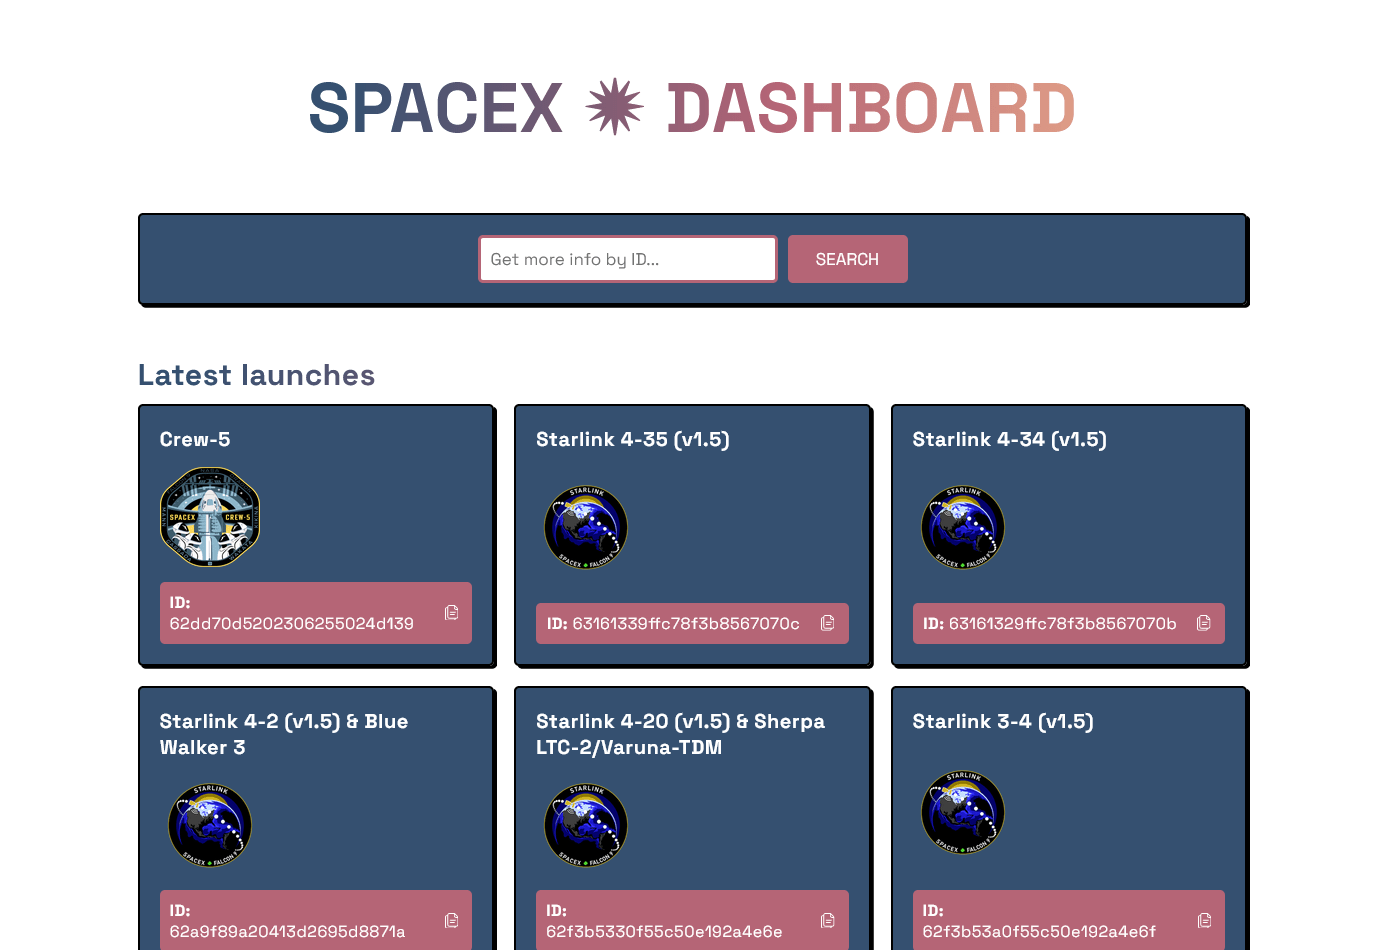
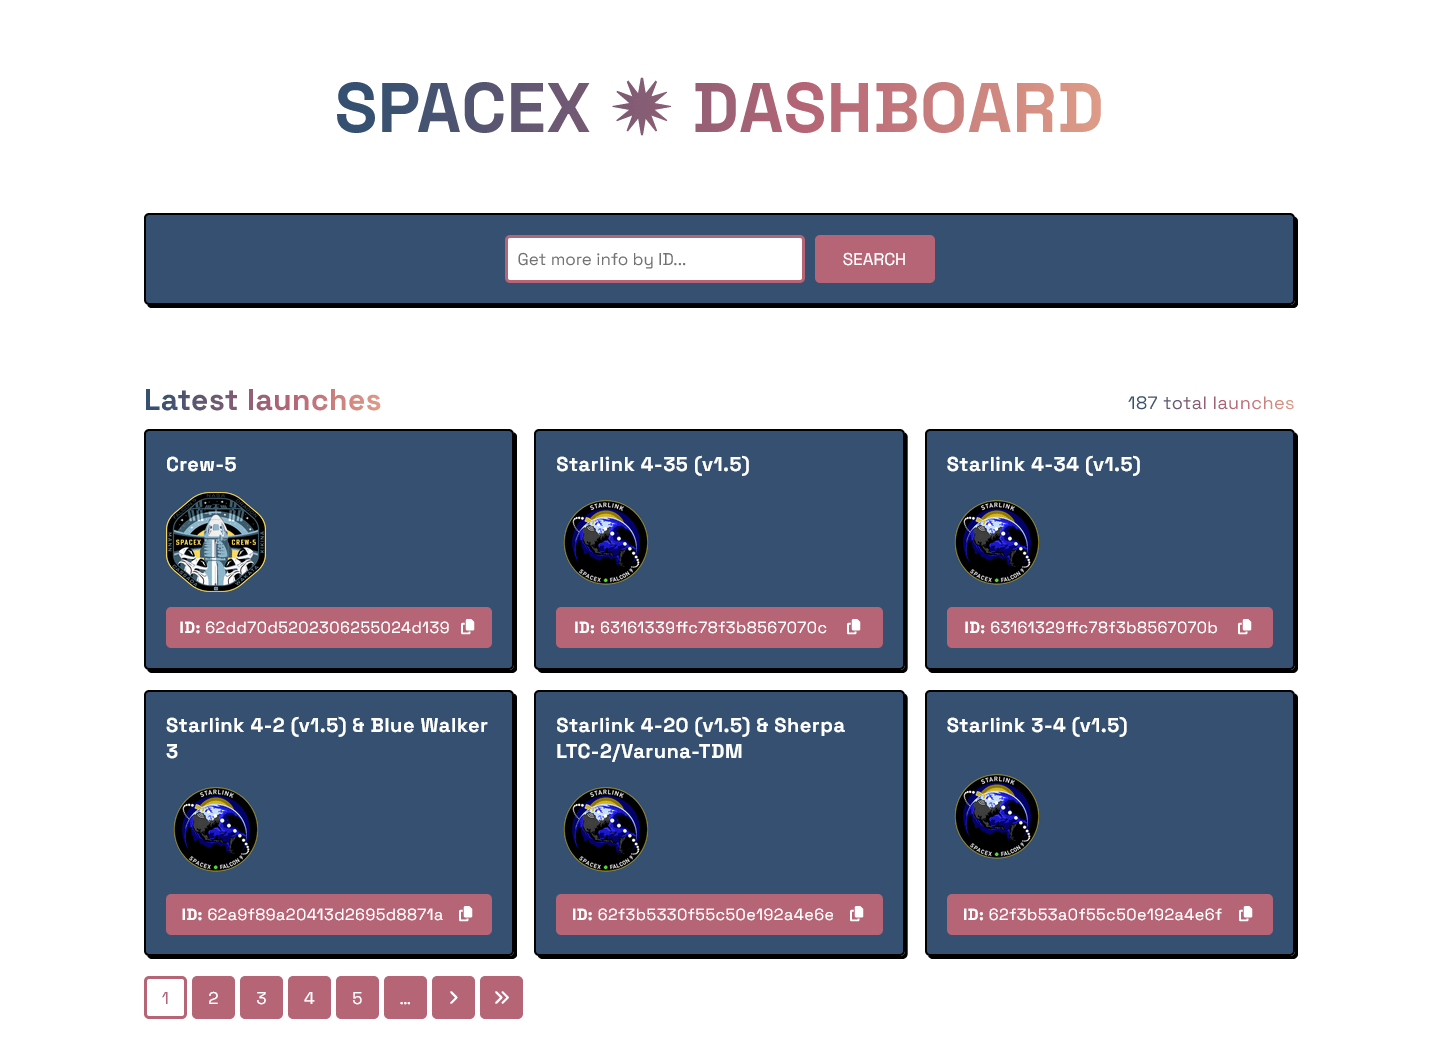
📝 Update readme

diff --git a/README.md b/README.md
@@ -26,12 +26,15 @@ A minimal React-based SPA / Dashboard that displays launch data via the unoffici
 -  Built with create-react-app (though probably will try to switch out for Vite down the line)
 -  Uses the unofficial open source [SpaceX-API v4](https://github.com/r-spacex/SpaceX-API/blob/master/README.md). All used endpoints are `GET` requests without any need for authentication.
 -  API calls done with Axios
+-  Icons are pulled from FontAwesome
 
 ## Features
 
 -  On load the app pulls the latest launches from the SpaceX API and displays them as little info boxes
+-  A pagination enables the user to click through all launches
 -  A search bar allows the user to search for individual launch IDs. The app then loads and displays additional data including the launch video in a more prominent info box
 -  IDs can be copied to the clipboard with a button to make the search less of a hassle
+-  If the page is scrolled, a button appears that enables users to scroll to the top
 
 ## To-Do
 
@@ -41,3 +44,4 @@ A minimal React-based SPA / Dashboard that displays launch data via the unoffici
 -  The boxes in the LatestLaunches component are a bit barren, maybe add additional info and wiki links
 -  Add more info to the search result box
 -  Even though the app doesn't do much with the string from the SearchBar, sanitizing the input could make sense
+-  Some basic validation to the SearchBar makes probably sense
